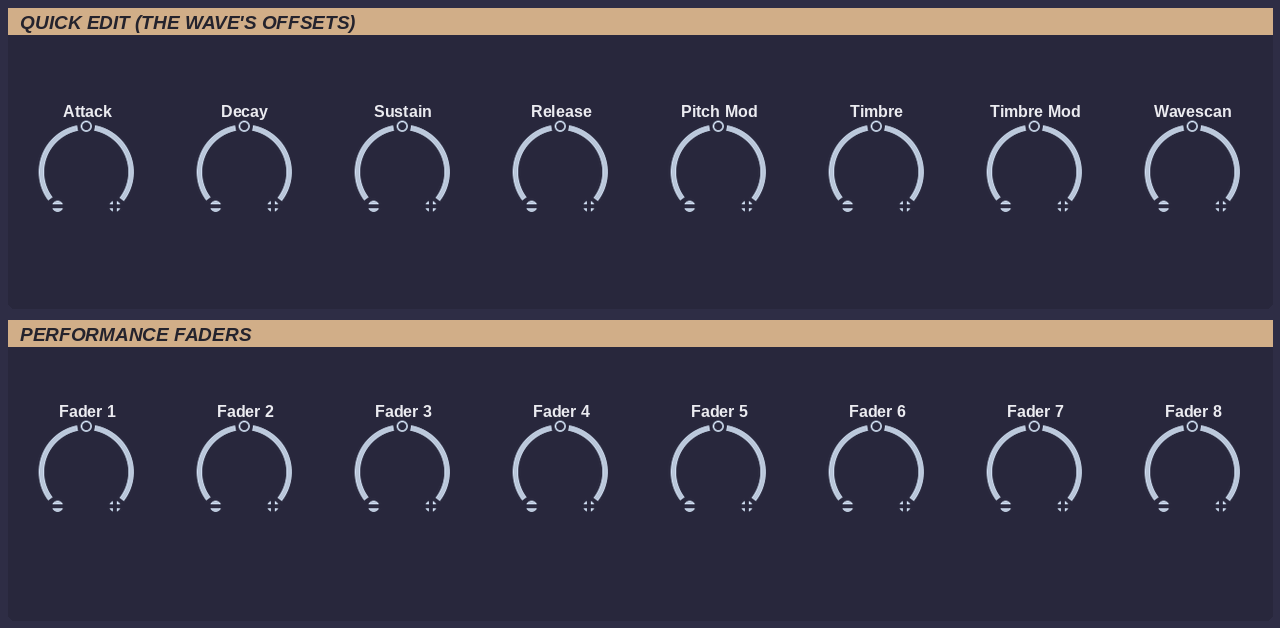
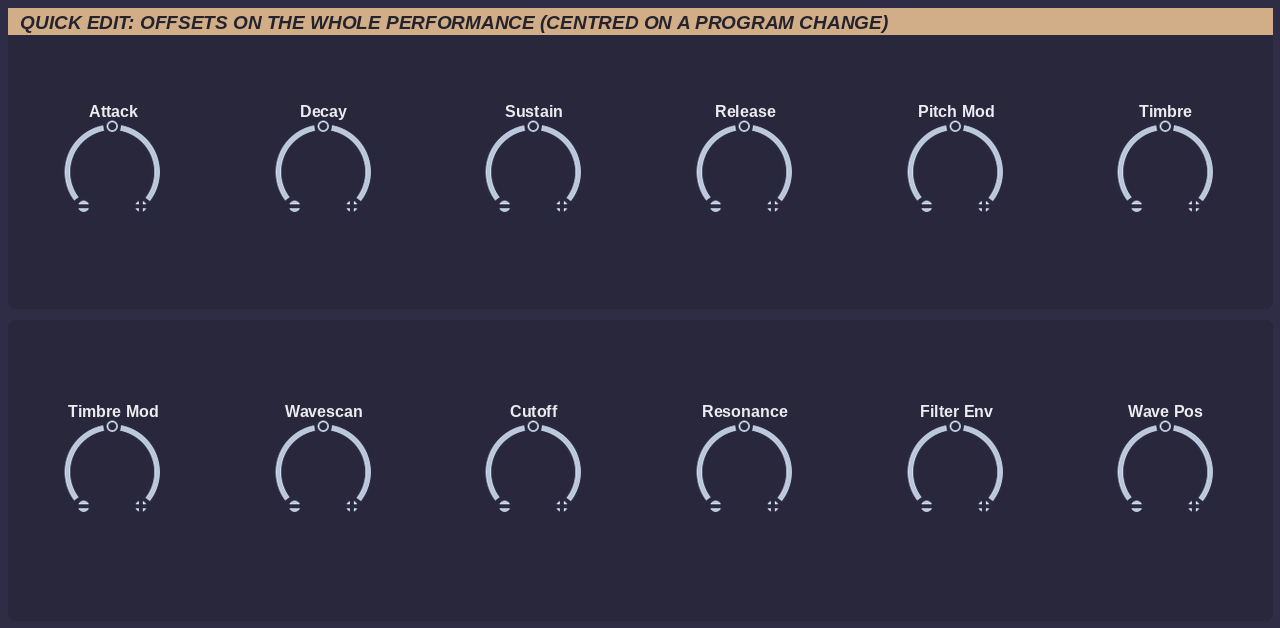
Quick Edit: Cutoff, Resonance, Filter Env and Wave Pos offsets for the whole performance, on the MAIN faders; all offsets centred on a program change
Claude-Session: https://claude.ai/code/session_01CpoP2srjV7KtCH1iUa1sg5

diff --git a/src/wave/WaveParameters.cpp b/src/wave/WaveParameters.cpp
@@ -1,5 +1,6 @@
 #include "WaveParameters.h"
 
+#include <algorithm>
 #include <cmath>
 
 namespace wave::parameters
@@ -234,7 +235,8 @@ juce::AudioProcessorValueTreeState::ParameterLayout createLayout()
                                      "Free Envelope Zero Axis", -64, 63, 0));
     constexpr std::array<const char*, quickEditCount> quickEditNames {
         "Quick Attack", "Quick Decay", "Quick Sustain", "Quick Release",
-        "Quick Pitch Mod", "Quick Timbre", "Quick Timbre Mod", "Quick Wavescan"
+        "Quick Pitch Mod", "Quick Timbre", "Quick Timbre Mod", "Quick Wavescan",
+        "Quick Cutoff", "Quick Resonance", "Quick Filter Env", "Quick Wave Position"
     };
     for (size_t index = 0; index < quickEdit.size(); ++index)
         layout.add(makeFloat(quickEdit[index], quickEditNames[index],
@@ -540,5 +542,22 @@ void applyQuickEdit(Snapshot& snapshot) noexcept
     const auto wavescanAmount = snapshot.quickEditAmounts[quickWavescan];
     snapshot.waveScan = scaleAmount(snapshot.waveScan, wavescanAmount);
     snapshot.waveScan2 = scaleAmount(snapshot.waveScan2, wavescanAmount);
+
+    // MPC port: the filter and the start wave on their own (Timbre moves all three at once)
+    const auto cutoffAmount = snapshot.quickEditAmounts[quickCutoff];
+    if (cutoffAmount != 0.0f)                          // +-48 cutoff steps: about four octaves either way
+        snapshot.cutoffHz = cutoffFrequencyForStep(cutoffStepForFrequency(snapshot.cutoffHz) + cutoffAmount * 48.0f);
+    snapshot.resonanceAmount = juce::jlimit(
+        0.0f, 1.0f, snapshot.resonanceAmount + snapshot.quickEditAmounts[quickResonance] * 0.6f);
+    const auto filterEnvAmount = snapshot.quickEditAmounts[quickFilterEnv];
+    snapshot.filterEnvelopeSemitones = juce::jlimit(       // up: deeper (to twice the stored depth, at least 24); down: to none
+        -64.0f, 63.0f, filterEnvAmount >= 0.0f
+                           ? snapshot.filterEnvelopeSemitones
+                                 + filterEnvAmount * std::max(std::abs(snapshot.filterEnvelopeSemitones), 24.0f)
+                                       * (snapshot.filterEnvelopeSemitones < 0.0f ? -1.0f : 1.0f)
+                           : snapshot.filterEnvelopeSemitones * (1.0f + filterEnvAmount));
+    const auto positionAmount = snapshot.quickEditAmounts[quickWavePosition];
+    snapshot.wavePosition = juce::jlimit(0.0f, 63.0f, snapshot.wavePosition + positionAmount * 32.0f);
+    snapshot.wavePosition2 = juce::jlimit(0.0f, 63.0f, snapshot.wavePosition2 + positionAmount * 32.0f);
 }
 } // namespace wave::parameters

diff --git a/src/dsp/welle_engine.cpp b/src/dsp/welle_engine.cpp
@@ -53,9 +53,9 @@ constexpr int kTargetFill = 768;        // frames the emulator thread keeps queu
 constexpr int kBoostFill = 2048;        // ~46 ms, for 500 ms after a program or bank load (the firmware does its work then)
 constexpr int kPrograms = 256;          // a Wave setup: two banks of 128 performances
 constexpr int kFavSlots = 64;
-// the MAIN faders in Quick Edit mode: the Wave's eight Quick Edit offsets, in its own order
-const char *const kQuickKeys[8] = {"quickAttack", "quickDecay", "quickSustain", "quickRelease", "quickPitchMod", "quickTimbre", "quickTimbreMod", "quickWavescan"};
-const char *const kQuickNames[8] = {"ATTACK", "DECAY", "SUSTAIN", "RELEASE", "PITCH MOD", "TIMBRE", "TIMBRE MOD", "WAVESCAN"};
+// the MAIN faders in Quick Edit mode: whole-performance offsets (the Wave's Quick Edit, and the port's filter / start-wave ones)
+const char *const kQuickKeys[8] = {"quickCutoff", "quickResonance", "quickFilterEnv", "quickWavePosition", "quickWavescan", "quickAttack", "quickDecay", "quickRelease"};
+const char *const kQuickNames[8] = {"CUTOFF", "RESONANCE", "FILTER ENV", "WAVE POS", "WAVESCAN", "ATTACK", "DECAY", "RELEASE"};
 const char *const kPerfNames[8] = {"FADER 1", "FADER 2", "FADER 3", "FADER 4", "FADER 5", "FADER 6", "FADER 7", "FADER 8"};
 
 FILE *g_log = nullptr;
@@ -453,6 +453,12 @@ void emu_main(Inst *in) {
                 if (c.a < proc->getNumPrograms()) proc->setCurrentProgram(c.a);
                 in->loading_until = mono_ms() + 1000;    // the firmware loads the performance over the next blocks
                 for (auto &v : pending) v = INT32_MIN;     // the program's own values win over edits made before it
+                for (int q = 0; q < WV_NUM_PARAMS; q++)    // and every Quick Edit offset back to the centre: a program sounds as stored
+                    if (!strncmp(g_wv_params[q].key, "quick", 5) && P[q]) {
+                        P[q]->setValueNotifyingHost(P[q]->convertTo0to1(0.0f));
+                        in->val[q] = from_norm(P[q], g_wv_params[q], P[q]->getValue());
+                    }
+                in->bump();
                 boost_until = mono_ms() + 500;
                 break;
             case C_RESTORE:

diff --git a/tools/make_skin.py b/tools/make_skin.py
@@ -358,12 +358,11 @@ p.done()
 
 # ---------------------------------------------------------------- QUICK / FADERS
 QK = [k for k in PARAMS if k.startswith("quick")]
-FD = ["performanceFader%d" % i for i in range(1, 9)]
-p = Page("QUICK", QK, ("FADERS", FD))
-p.panel(8, 8, 1264, 300, "QUICK EDIT (THE WAVE'S OFFSETS)")
-p.row(8, 1272, 170, [(k, PARAMS[k]["name"].replace("Quick ", "")) for k in QK])
-p.panel(8, 320, 1264, 300, "PERFORMANCE FADERS")
-p.row(8, 1272, 470, [(k, "Fader %d" % (i + 1)) for i, k in enumerate(FD)])
+p = Page("QUICK", QK[:8], ("QUICK 2", QK[8:]))
+p.panel(8, 8, 1264, 300, "QUICK EDIT: OFFSETS ON THE WHOLE PERFORMANCE (CENTRED ON A PROGRAM CHANGE)")
+p.row(8, 1272, 170, [(k, PARAMS[k]["name"].replace("Quick ", "")) for k in QK[:6]])
+p.panel(8, 320, 1264, 300)
+p.row(8, 1272, 470, [(k, PARAMS[k]["name"].replace("Quick ", "")) for k in QK[6:]])
 p.done()
 
 open(os.path.join(OUT, "layout.conf"), "w").write("\n".join(lines) + "\n")

diff --git a/tools/gen_params.py b/tools/gen_params.py
@@ -41,7 +41,7 @@ SHORT = {   # names for the MPC screen (the processor's own are long)
     "highpassEnvelopeAmount": "HP Env Amt", "highpassVelocity": "HP Velocity", "highpassKeytrack": "HP Keytrack",
     "highpassKeyCenter": "HP Key Center", "bandpassBandwidth": "BP Width", "panMode": "Pan Mod Mode", "circuitAge": "Circuit Age",
     "freeEnvZeroAxis": "Free Env Zero", "waveEnvKeyOff": "Key Off Point", "waveEnvLoopStart": "Loop Start",
-    "waveEnvLoopEnabled": "Env Loop", "glideTimeMode": "Glide Mode", "glideRateModSource": "Glide Mod Src",
+    "waveEnvLoopEnabled": "Env Loop", "glideTimeMode": "Glide Mode", "quickWavePosition": "Quick Wave Pos", "glideRateModSource": "Glide Mod Src",
     "glideRateModAmount": "Glide Mod Amt",
 }
 

diff --git a/src/wave/WaveParameters.h b/src/wave/WaveParameters.h
@@ -168,11 +168,17 @@ enum QuickEditIndex
     quickTimbre,
     quickTimbreMod,
     quickWavescan,
+    // MPC port: four more whole-performance offsets for the MPC's MAIN faders
+    quickCutoff,
+    quickResonance,
+    quickFilterEnv,
+    quickWavePosition,
     quickEditCount
 };
 inline constexpr std::array<const char*, quickEditCount> quickEdit {
     "quickAttack", "quickDecay", "quickSustain", "quickRelease",
-    "quickPitchMod", "quickTimbre", "quickTimbreMod", "quickWavescan"
+    "quickPitchMod", "quickTimbre", "quickTimbreMod", "quickWavescan",
+    "quickCutoff", "quickResonance", "quickFilterEnv", "quickWavePosition"
 };
 inline constexpr auto drive = "drive";
 inline constexpr auto attack = "attack";

diff --git a/src/dsp/welle_params.h b/src/dsp/welle_params.h
@@ -197,11 +197,15 @@ static const wv_param_t g_wv_params[] = {
     {"quickTimbre", 1, 0, 127, 64},
     {"quickTimbreMod", 1, 0, 127, 64},
     {"quickWavescan", 1, 0, 127, 64},
+    {"quickCutoff", 1, 0, 127, 64},
+    {"quickResonance", 1, 0, 127, 64},
+    {"quickFilterEnv", 1, 0, 127, 64},
+    {"quickWavePosition", 1, 0, 127, 64},
     {"pan", 1, 0, 127, 64},
     {"panMode", 2, 0, 2, 1},
     {"output", 1, 0, 127, 81},
     {"circuitAge", 1, 0, 127, 23},
 };
-static const int WV_NUM_PARAMS = 197;
+static const int WV_NUM_PARAMS = 201;
 #define WV_PATCH_TILES 32
 #define WV_BANK_TILES 10
